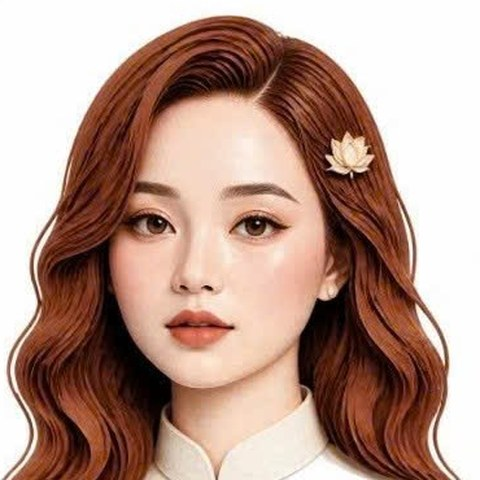
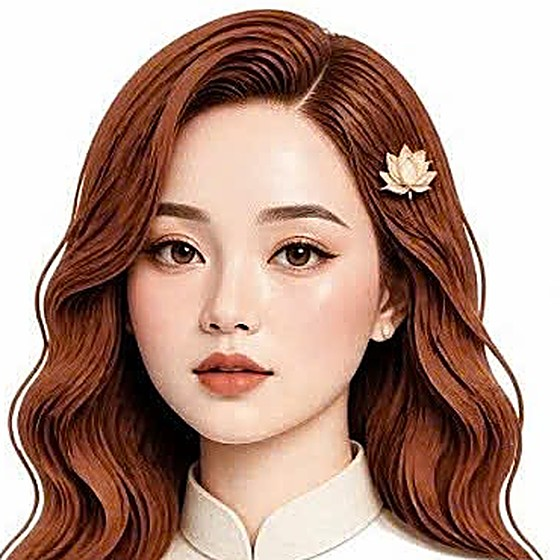
Ảnh nghệ sĩ nét hơn; ảnh nghiêng 3D không còn nhoè lúc đứng yên
- artist-face.jpg: làm nét từ ảnh gốc (unsharp mask), phóng 560×560 bằng
  Lanczos, lưu JPEG 90 progressive.
- .tilt: lúc đứng yên không còn phép biến đổi 3D và bỏ will-change — hai thứ
  này khiến trình duyệt vẽ ảnh vào một lớp riêng ở độ phân giải thấp nên hơi
  nhoè; chỉ khi rê chuột mới nghiêng.

Claude-Session: https://claude.ai/code/session_01WM6cEC7QU5yM4oqMZKVefG

diff --git a/src/styles.css b/src/styles.css
@@ -520,14 +520,16 @@ input[type="search"]::-webkit-search-decoration {
   }
 }
 
+/* Lúc đứng yên không có phép biến đổi nào, để trình duyệt vẽ ảnh sắc nét
+   như ảnh thường; chỉ khi rê chuột mới nghiêng 3D. */
 .tilt {
   position: relative;
-  transform: perspective(700px) rotateX(var(--rx, 0deg)) rotateY(var(--ry, 0deg));
+  transform: none;
   transition: transform 0.5s var(--ease-soft);
-  will-change: transform;
 }
 
 .tilt[data-tilting] {
+  transform: perspective(700px) rotateX(var(--rx, 0deg)) rotateY(var(--ry, 0deg));
   transition: transform 0.08s linear;
 }
 
